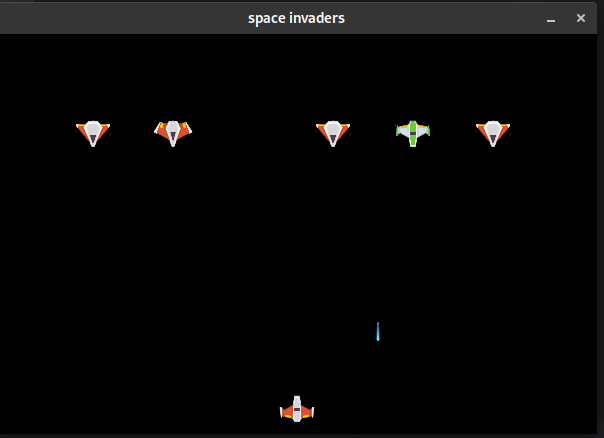
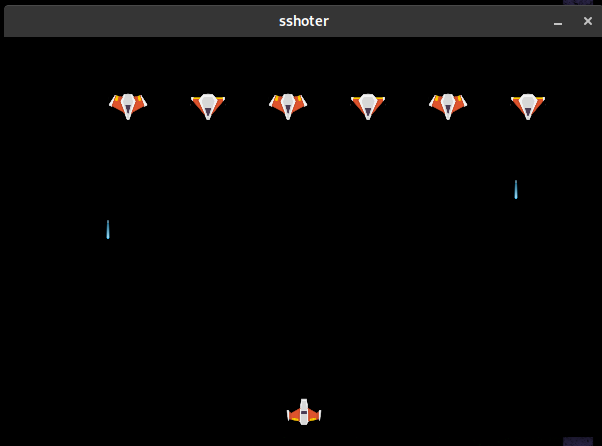
.

diff --git a/src/defines.py b/src/defines.py
@@ -15,4 +15,4 @@ class angles(IntEnum):
     FACE_UP = 90
     FACE_DOWN = -90
 
-TITLE = 'space invaders'
+TITLE = 'sshoter'

diff --git a/README.md b/README.md
@@ -13,13 +13,13 @@ SShooter is made with python and arcade.
 Create a virtual env:
 
 ```bash
-$ mkvirtualenv --python=python3.6 space-invaders
+$ mkvirtualenv --python=python3.6 sshooter
 ```
 
 If you alredy have the enviroment:
 
 ```bash
-$ workon space-invaders
+$ workon sshooter
 ```
 
 Install all dependencies: 
